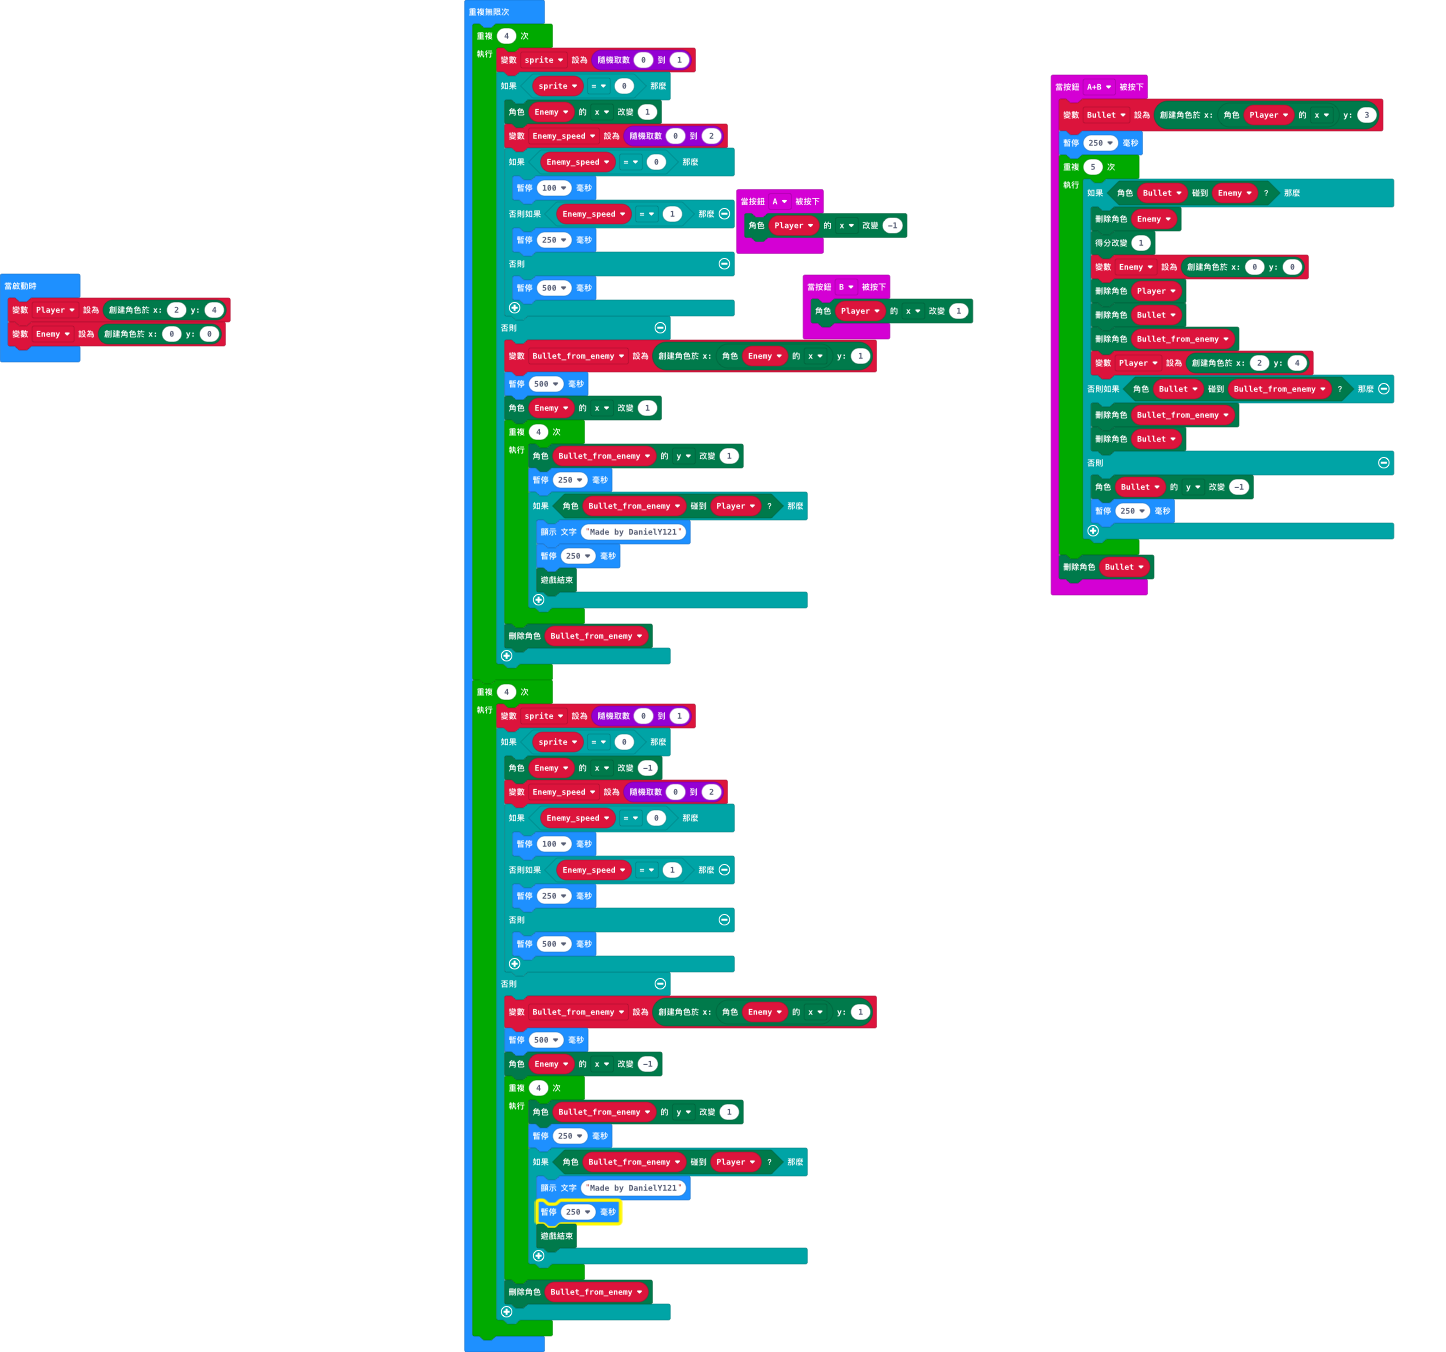
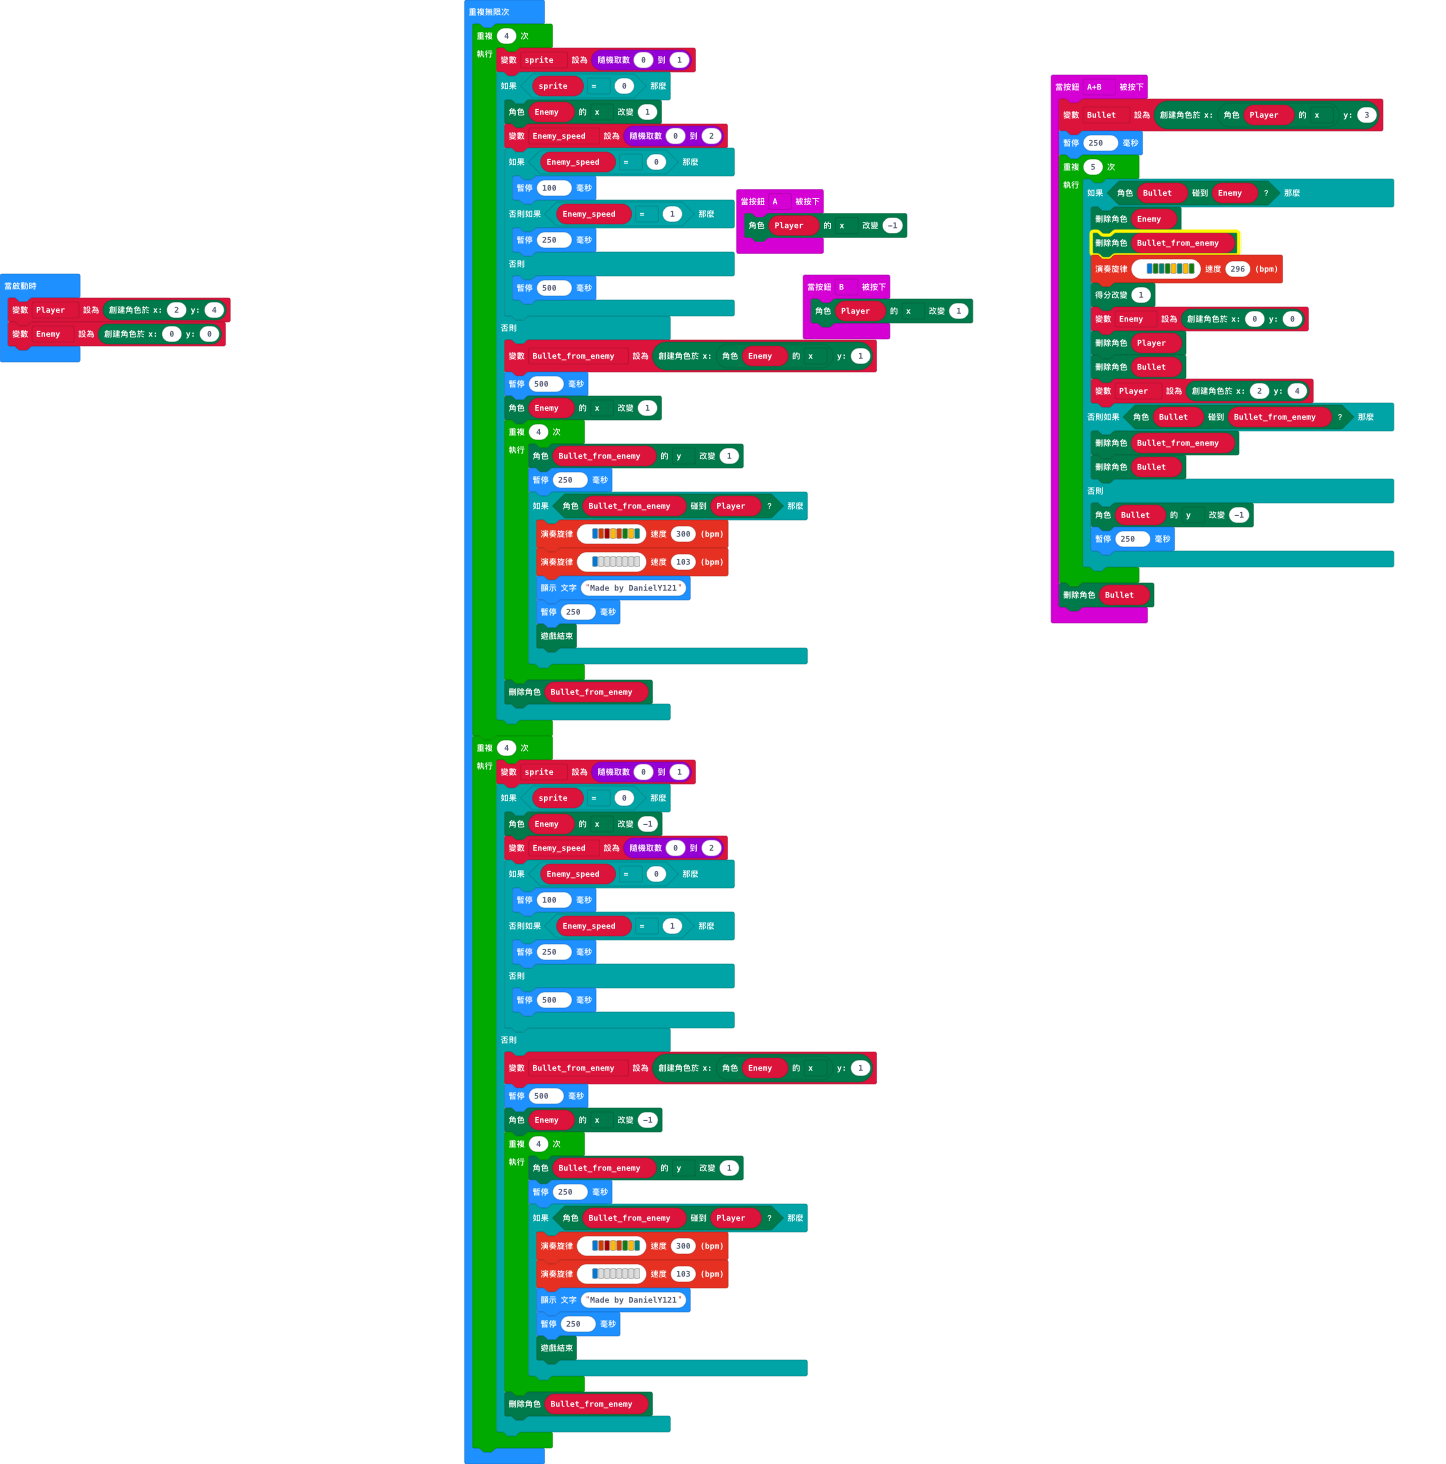
music

Changed region(s): [[0.3112, 0.0, 0.6846, 0.9941], [0.7158, 0.0311, 0.9647, 0.466], [0.0, 0.1864, 0.1556, 0.2796]]

diff --git a/main.ts b/main.ts
@@ -7,11 +7,12 @@ input.onButtonPressed(Button.AB, function () {
     for (let index = 0; index < 5; index++) {
         if (Bullet.isTouching(Enemy)) {
             Enemy.delete()
+            Bullet_from_enemy.delete()
+            music.playMelody("E G F G A F A G ", 296)
             game.addScore(1)
             Enemy = game.createSprite(0, 0)
             Player.delete()
             Bullet.delete()
-            Bullet_from_enemy.delete()
             Player = game.createSprite(2, 4)
         } else if (Bullet.isTouching(Bullet_from_enemy)) {
             Bullet_from_enemy.delete()
@@ -55,6 +56,8 @@ basic.forever(function () {
                 Bullet_from_enemy.change(LedSpriteProperty.Y, 1)
                 basic.pause(250)
                 if (Bullet_from_enemy.isTouching(Player)) {
+                    music.playMelody("E B C5 A B G A F ", 300)
+                    music.playMelody("E - - - - - - - ", 103)
                     basic.showString("Made by DanielY121")
                     basic.pause(250)
                     game.gameOver()
@@ -83,6 +86,8 @@ basic.forever(function () {
                 Bullet_from_enemy.change(LedSpriteProperty.Y, 1)
                 basic.pause(250)
                 if (Bullet_from_enemy.isTouching(Player)) {
+                    music.playMelody("E B C5 A B G A F ", 300)
+                    music.playMelody("E - - - - - - - ", 103)
                     basic.showString("Made by DanielY121")
                     basic.pause(250)
                     game.gameOver()
